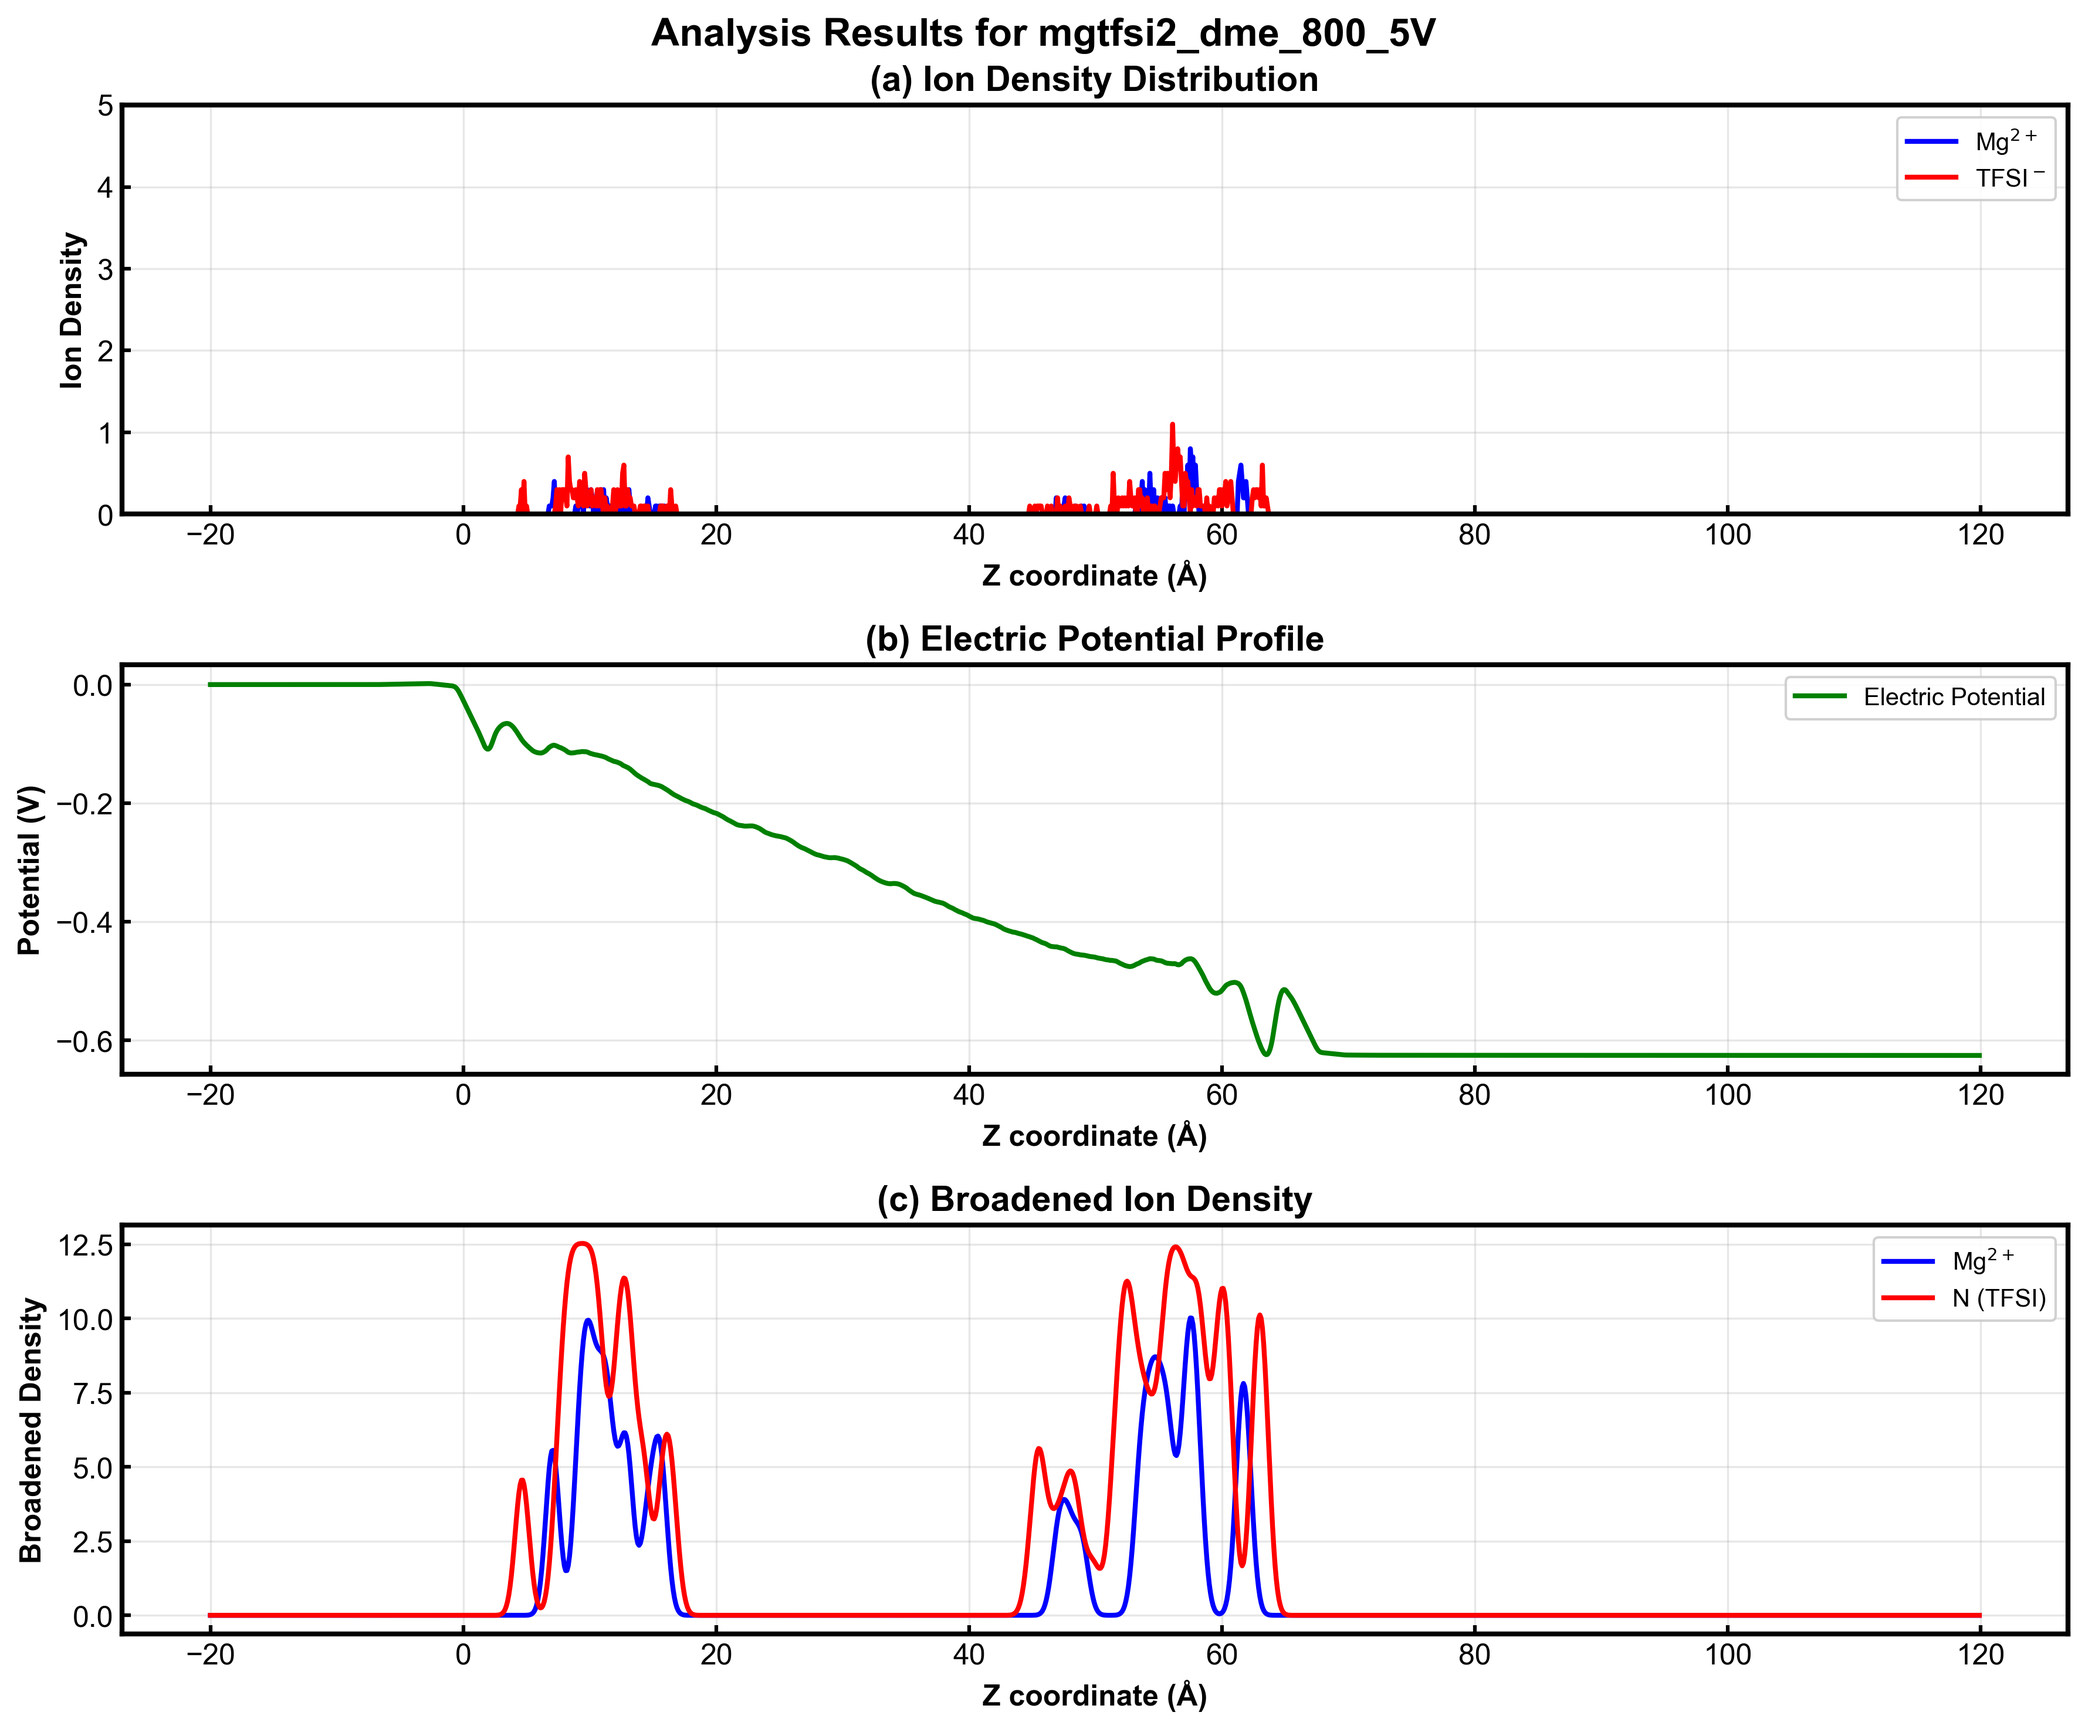
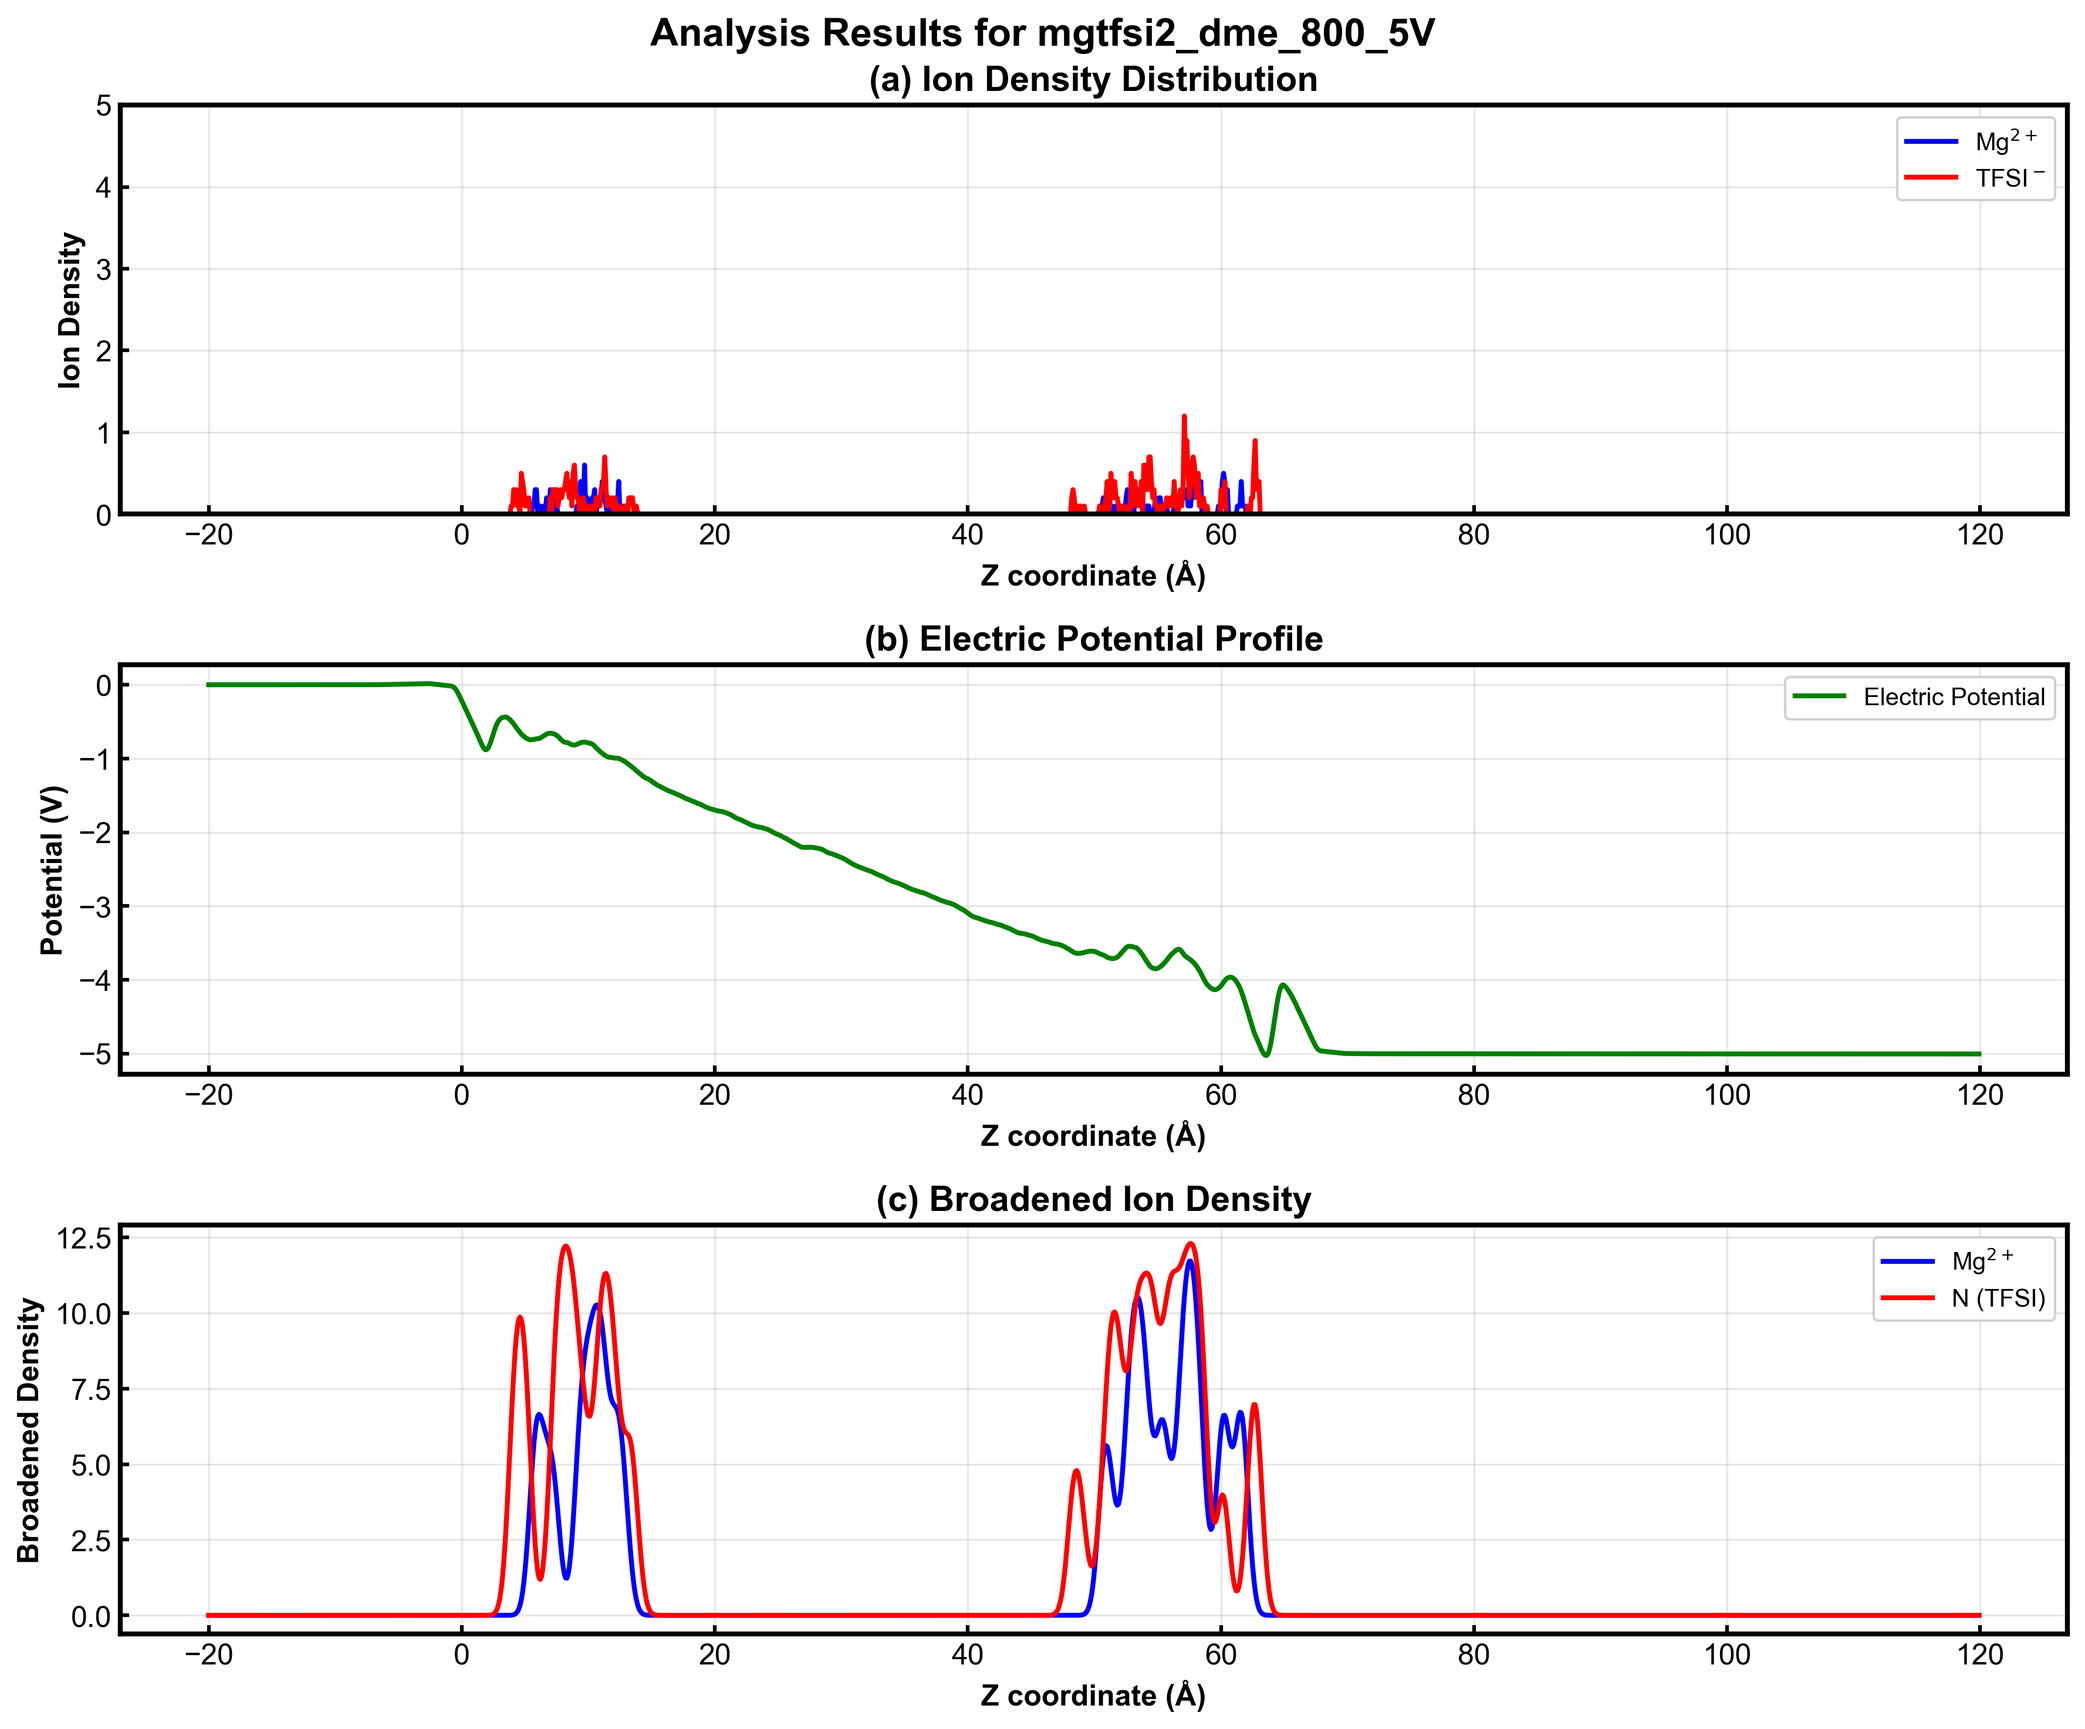
used

diff --git a/pic/pic_potential_combine.py b/pic/pic_potential_combine.py
@@ -7,11 +7,9 @@ import os
 plt.rcParams.update({'font.size': 14})
 # 读取数据
 filepaths = [
-    r'E:\Project\57.MgTFSI2_DME_interface\1.800_solvents\8.MD_init2_0V/',
-    r'E:\Project\57.MgTFSI2_DME_interface\1.800_solvents\10.MD_init2_1V/',
-    r"E:\Project\57.MgTFSI2_DME_interface\1.800_solvents\11.MD_init2_2V/",
-    r'E:\Project\57.MgTFSI2_DME_interface\1.800_solvents\9.MD_init2_3V/',
-    r'E:\Project\57.MgTFSI2_DME_interface\1.800_solvents\12.MD_init2_4V/',
+    r'E:\Project\57.MgTFSI2_DME_interface\1.800_solvents\14.MD_init2_charge_scale_0.5_5V/',
+    r'E:\Project\57.MgTFSI2_DME_interface\1.800_solvents\15.MD_init2_charge_scale_0.7_5V/',
+    r"E:\Project\57.MgTFSI2_DME_interface\1.800_solvents\16.MD_init2_charge_scale_0.9_5V/",
     r'E:\Project\57.MgTFSI2_DME_interface\1.800_solvents\7.MD_init2_nvt_5V/'
 ]
 
@@ -24,7 +22,7 @@ for filepath in filepaths:
     # 创建图形和坐标轴
 
     folder_name = os.path.basename(os.path.normpath(filepath.rstrip('/\\')))
-    label_now = folder_name.split('_')[-1]
+    label_now = folder_name.split('_')[-2]
     # 绘制数据
     ax.plot(data_now[:,0], data_now[:,3], '-', label=label_now, linewidth=2)
 

diff --git a/analysis/number_charge_density_dipole_from_lammpstrj2.py b/analysis/number_charge_density_dipole_from_lammpstrj2.py
@@ -320,17 +320,17 @@ if __name__ == '__main__':
 
     }
 
-    sys_name = 'mgtfsi2_dme_800_5V_scale_0.7'
+    sys_name = 'mgtfsi2_dme_800_5V'
     LINE_NUMBER_PER_FRAME = 15589 # 14389 #15589  # p每帧的行数
-    LAMMPSTRJ_NAME = 'NVEe_1_5_element_labeled.lammpstrj'
+    LAMMPSTRJ_NAME = 'NVEe_pl_1_10_element_labeled.lammpstrj'
 
-    for start in [0]:
+    for start in [900]:
         end = start + 100
         step = 10
         CHARGE_NAME = LAMMPSTRJ_NAME + f'_total_density_{start}_{end}_{step}.dat'
         POTENTIAL_NAME = LAMMPSTRJ_NAME + f'_potential_{start}_{end}_{step}.dat'
         BROADEN_NAME = LAMMPSTRJ_NAME + f'_broaden_density_{start}_{end}_{step}.dat'
-        F_DENSITY = True  # 设置为False来测试读取现有数据
+        F_DENSITY = False  # 设置为False来测试读取现有数据
 
         f_path = title_dict[sys_name]
 

diff --git a/output_deal/lammpstrj_element_label_MgTFSI2_DME.py b/output_deal/lammpstrj_element_label_MgTFSI2_DME.py
@@ -2,8 +2,8 @@ import pandas as pd
 from collections import Counter
 import os
 
-filepath = r'E:\Project\57.MgTFSI2_DME_interface\1.800_solvents\15.MD_init2_charge_scale_0.7_5V/'
-filename = filepath + 'NVEe_1_5.lammpstrj'
+filepath = r'E:\Project\57.MgTFSI2_DME_interface\1.800_solvents\12.MD_init2_4V/'
+filename = filepath + 'NVEe_pl_1_10.lammpstrj'
 base_name, ext = os.path.splitext(filename)
 n_slab = 2160 #960 #2160
 n_dme = 800

diff --git a/output_deal/xyz_division.py b/output_deal/xyz_division.py
@@ -36,7 +36,7 @@ if __name__ == "__main__":
     input_filename = input_prefix + "." + format
     steps = 1000
     f_path = title_dict[sys_name]
-    f_path = r'E:\Project\57.MgTFSI2_DME_interface\1.800_solvents\12.MD_init2_4V/'
+    f_path = r'E:\Project\57.MgTFSI2_DME_interface\1.800_solvents\7.MD_init2_nvt_5V/'
     paths = []
     for i in [1]:
         path = f_path

diff --git a/analysis/cluster_stat_with_solvent_lammps_interface.py b/analysis/cluster_stat_with_solvent_lammps_interface.py
@@ -29,7 +29,7 @@ class Cluster_stat():
         self.cluster_stat = dict()
 
     def in_queue(self, id, name):
-        if id == 0:
+        if id == 0:  # 如果是slab就不入队
             return
         self.q_id.append(id)
         self.q_name.append(name)
